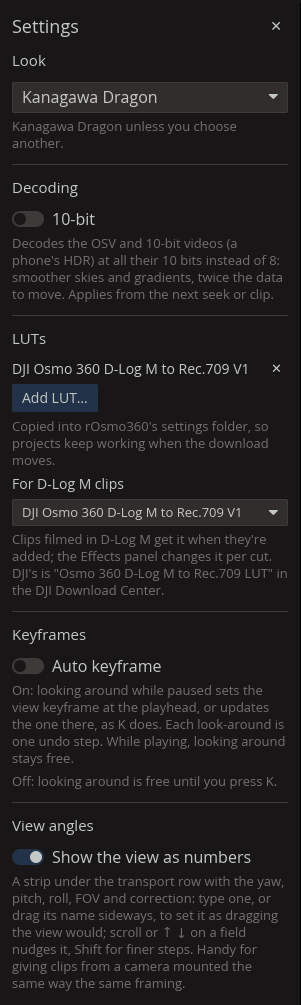
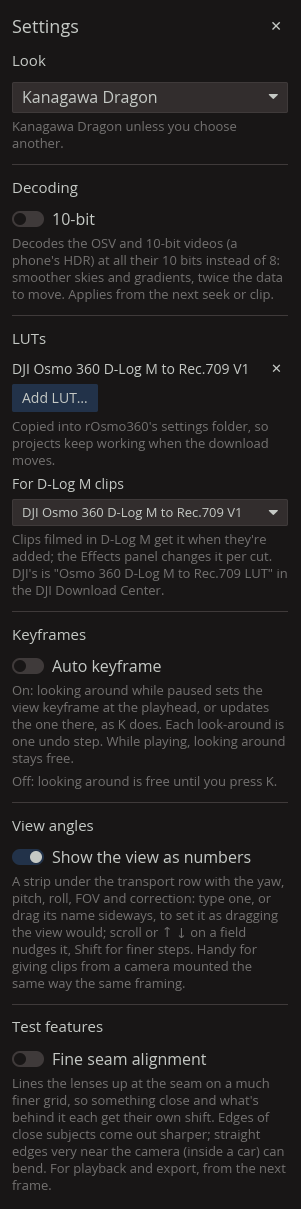
Guide: the Settings panel's screenshot with Test features
Joined from two captures of the fullscreen panel, as it now scrolls
there: its top, and its end after scrolling.

Claude-Session: https://claude.ai/code/session_01Eby9C3cDwrrozo5M1Jq3Fa

Changed region(s): [[0.0299, 0.0, 0.9568, 0.9871], [0.897, 0.0, 0.9269, 0.0308]]

diff --git a/docs/user-guide.md b/docs/user-guide.md
@@ -525,7 +525,7 @@ Both are rendered from fresh full-resolution frames, which takes a few seconds. 
 
 Click the **cog** at the far left of the top bar, or press **Ctrl+,**, for the **Settings panel** at the left of the view. Everything in it is remembered between runs.
 
-![The Settings panel: Look, with the theme picker on Kanagawa Dragon; Decoding, with the 10-bit switch; LUTs, with DJI Osmo 360 D-Log M to Rec.709 V1 in the library, the Add LUT… button and the LUT for D-Log M clips; Keyframes, with the Auto keyframe switch; View angles, with the Show the view as numbers switch; each with a short note](guide/settings-panel.png)
+![The Settings panel: Look, with the theme picker on Kanagawa Dragon; Decoding, with the 10-bit switch; LUTs, with DJI Osmo 360 D-Log M to Rec.709 V1 in the library, the Add LUT… button and the LUT for D-Log M clips; Keyframes, with the Auto keyframe switch; View angles, with the Show the view as numbers switch; Test features, with the Fine seam alignment switch; each with a short note](guide/settings-panel.png)
 
 - **Look**: the colour theme. rOsmo360 starts in **Kanagawa Dragon**, a dark theme that keeps the picture in front; the list has light and dark themes such as Nord, Dracula, Gruvbox, Catppuccin and Tokyo Night, and the change shows at once.
 - **Decoding → 10-bit**: decodes the Osmo's `.OSV` and other 10-bit video (a phone's HDR) with all its 10 bits instead of 8. Skies and smooth gradients stay smoother, most of all after strong grading, in the player's full-resolution frames and in exports. It moves twice the data, so a full-resolution export takes about a third longer on a PC; playing from the `.LRF` proxy isn't affected. Off by default; it applies from the next seek or clip.
